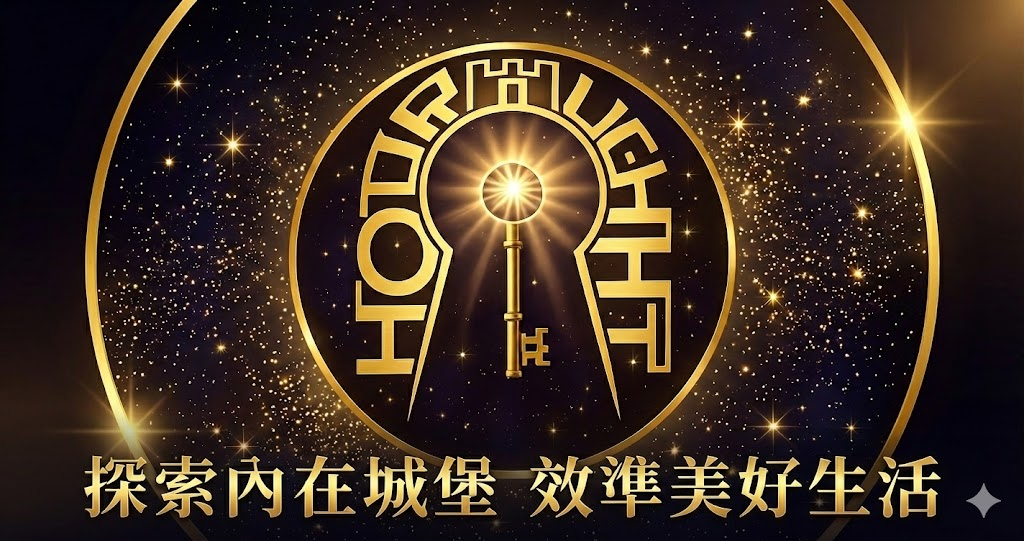
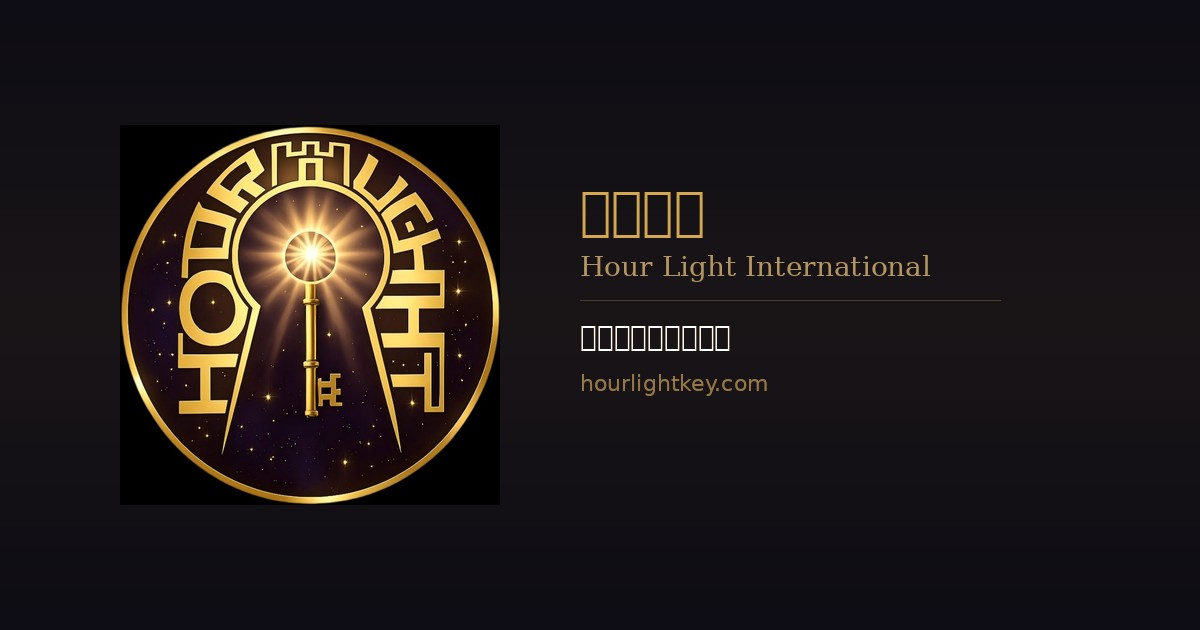
Add files via upload

diff --git a/quiz-bloodtype.html b/quiz-bloodtype.html
@@ -7,6 +7,7 @@
 <meta name="viewport" content="width=device-width,initial-scale=1"/>
 <title>血型人格框架測驗免費｜你活在血型框架裡嗎？｜馥靈之鑰</title>
 <meta name="description" content="免費血型人格測驗｜你是A型卻一點都不像A型？15題驗證你有沒有被血型框住。不是算命，是用覺察破除標籤。馥靈之鑰免費心理工具。">
+<meta property="og:image" content="https://hourlightkey.com/og-image.jpg"/>
 <meta property="og:title" content="血型人格框架測驗免費｜你活在血型框架裡嗎？｜馥靈之鑰">
 <meta property="og:description" content="免費血型人格測驗｜你是A型卻一點都不像A型？15題驗證你有沒有被血型框住。不是算命，是用覺察破除標籤。馥靈之鑰免費心理工具。">
 <meta property="og:url" content="https://hourlightkey.com/quiz-bloodtype.html">

diff --git a/music.html b/music.html
@@ -5,6 +5,7 @@
 <meta name="viewport" content="width=device-width, initial-scale=1.0">
 <title>馥靈之鑰｜能量音樂 ✧ Hour Light Music</title>
 <meta name="description" content="馥靈之鑰原創 432Hz 能量音樂，25 首原創身心校準音樂作品。以 432Hz 聲波原理設計，適合冥想、放鬆、能量平衡使用。創辦人王逸君原創詞曲。">
+<meta property="og:image" content="https://hourlightkey.com/og-image.jpg"/>
 <meta property="og:title" content="馥靈之鑰｜能量音樂 Hour Light Music">
 <meta property="og:description" content="25 首原創 432Hz 能量音樂，以聲波共振原理設計，適合冥想、放鬆、能量平衡使用。">
 <meta property="og:type" content="website">
